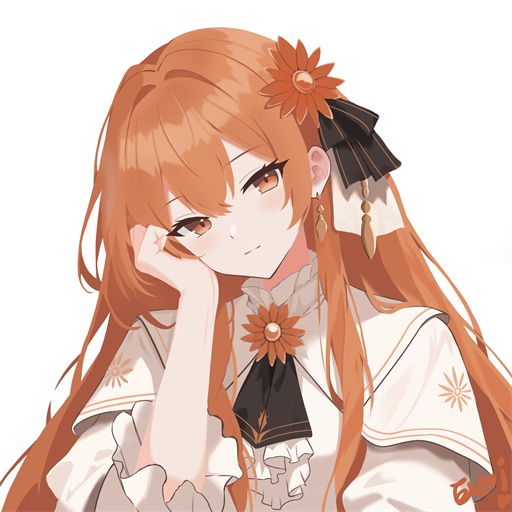
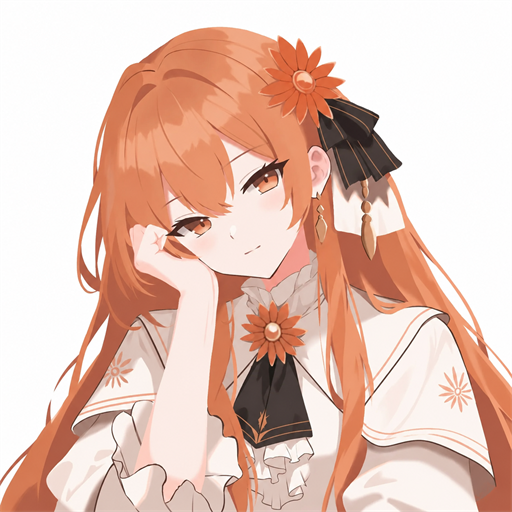
1

diff --git a/Android version/app/src/main/java/com/obliphur/oit/core/Comm.kt b/Android version/app/src/main/java/com/obliphur/oit/core/Comm.kt
@@ -4615,21 +4615,26 @@ class Comm(
         }
     }
 
-    /** 自带人设的默认头像 (1.0.426; 1.0.431 换成方形原图): 第一次运行 (或重置后) 放一份;
-     *  以前默认的圆形图还是原样时一并换掉; 用户自己换过 / 删过的不动 (设置里记版本). */
-    fun seedDefaultAvatar(bytes: ByteArray?, legacy: ByteArray? = null) {
-        if (defaultAvatarVersion >= 2) return
+    /** 自带人设的默认头像 (1.0.426; 1.0.431 / 1.0.432 换过图): 第一次运行 (或重置后) 放一份;
+     *  以前默认的图还是原样时一并换掉; 用户自己换过 / 删过的不动 (设置里记版本). */
+    fun seedDefaultAvatar(bytes: ByteArray?) {
+        if (defaultAvatarVersion >= 3) return
         val name = "Claudia.txt"
         val dst = File(File(dir, "avatars"), avatarName("ai", name))
         val cur = if (dst.isFile) runCatching { dst.readBytes() }.getOrNull() else null
-        val old = legacy != null && cur != null && cur.contentEquals(legacy)
[2 lines of base64/hex data omitted]
+        val old = cur != null && sha256(cur) in oldHashes
         if (bytes != null && listPersonas().contains(name) && (cur == null || old)) runCatching {
             dst.parentFile?.mkdirs()
             dst.writeBytes(bytes)
         }
-        defaultAvatarVersion = 2
+        defaultAvatarVersion = 3
         saveCfg()
     }
+
+    private fun sha256(b: ByteArray): String = java.security.MessageDigest.getInstance("SHA-256")
+        .digest(b).joinToString("") { "%02x".format(it.toInt() and 0xff) }
 
     /** 头像文件 (没有就是 null). */
     fun avatarPath(who: String): File? = avatarFile(who).takeIf { it.isFile }

diff --git a/Android version/app/src/main/java/com/obliphur/oit/core/Core.kt b/Android version/app/src/main/java/com/obliphur/oit/core/Core.kt
@@ -278,7 +278,7 @@ class Core(val dir: File, val host: Host, val mono: () -> Double) {
         )
         loadViolations()
         comm = Comm(dir, host.personasDir() ?: File(dir, "personas"))
-        runCatching { comm.seedDefaultAvatar(host.defaultAvatar("Claudia"), host.defaultAvatar("Claudia_legacy")) }
+        runCatching { comm.seedDefaultAvatar(host.defaultAvatar("Claudia")) }
         comm.snapshot = { commSnapshot() }
         comm.fog = { contract.fog() }
         comm.infoFn = { tag -> commInfo(tag) }

diff --git a/comm.py b/comm.py
@@ -22,6 +22,7 @@
     python comm.py     自检 (不联网, 只用临时文件夹)
 """
 
+import hashlib
 import json
 import os
 import random
@@ -42,7 +43,11 @@ HERE = os.path.dirname(os.path.abspath(__file__))
 REFUSE = "[refuse to reply]"
 OIT_TAG = "[OIT_SYSTEM_MESSAGES]"      # OIT 直接发出的消息都带这个标记 (1.0.423)
 DEFAULT_AVATARS = {"Claudia.txt": "Claudia.png"}    # 自带人设的默认头像 (1.0.426): defaults/avatars/ 里的文件
-DEFAULT_AVATAR_VERSION = 2                         # 2 = 1.0.431 换成方形原图; 以前的圆形默认图见 Claudia_legacy.png
+DEFAULT_AVATAR_VERSION = 3                         # 3 = 1.0.432 换成新版方形原图
+# 以前默认头像的 sha256 (只在升级时比对, 不带旧图): v1 圆形 / v2 圆形
+DEFAULT_AVATAR_OLD_HASHES = {"Claudia.txt": {
[2 lines of base64/hex data omitted]
 PRO_LANGS = ("中文", "English", "日本語", "한국어", "Français", "Deutsch", "Español", "Русский")       # 设置里的主动谈话语言可选项 (1.0.407); 也可以自己写别的
 MAX_PRO_LANG = 30
 PRO_LANG_NOTE = ("\n(OIT 设置, 用户指定) 这条主动发起的话请使用「{lang}」来说; 只限这一条, 之后和用户的对话不受这个限制: "
@@ -4175,18 +4180,12 @@ class Comm:
             pass
 
     def _seed_default_avatars(self):
-        """自带人设的默认头像 (1.0.426; 1.0.431 换成方形原图): 第一次运行 (或重置后) 放一份到 avatars.
-        以前默认的那张圆形图还是原样时一并换成新的; 用户自己换过 / 删过的不动 (设置里记版本, 之后不再放)."""
+        """自带人设的默认头像 (1.0.426; 1.0.431 / 1.0.432 换过图): 第一次运行 (或重置后) 放一份到 avatars.
+        以前默认的图还是原样时一并换成新的; 用户自己换过 / 删过的不动 (设置里记版本, 之后不再放)."""
         have = self.cfg.get("default_avatars")
         ver = 1 if have is True else (int(have) if isinstance(have, int) and not isinstance(have, bool) else 0)
         if ver >= DEFAULT_AVATAR_VERSION:
             return
-        legacy = None
-        try:
-            with open(os.path.join(HERE, "defaults", "avatars", "Claudia_legacy.png"), "rb") as f:
-                legacy = f.read()
-        except OSError:
-            pass
         names = set(list_personas(self.personas))
         for persona, file in DEFAULT_AVATARS.items():
             if persona not in names:
@@ -4199,7 +4198,8 @@ class Comm:
                     cur = f.read()
             except OSError:
                 pass
-            if cur is None or (legacy is not None and cur == legacy):
+            old = hashlib.sha256(cur).hexdigest() in DEFAULT_AVATAR_OLD_HASHES.get(persona, ()) if cur is not None else False
+            if cur is None or old:
                 try:
                     os.makedirs(os.path.dirname(dst), exist_ok=True)
                     shutil.copyfile(src, dst)

diff --git a/config.py b/config.py
@@ -214,7 +214,7 @@ OUTING_MAX_HOURS = 24 * 7
 
 
 APP_NAME = "Obliphur's Integrated Terminal"
-APP_VERSION = "1.0.431"                        # 和 GitHub 上发布的版本号比较 (见 updater.py)
+APP_VERSION = "1.0.432"                        # 和 GitHub 上发布的版本号比较 (见 updater.py)
 UPDATE_CHECK = 1                              # 打开程序时检查更新
 FULLSCREEN_DEFAULT = 0                        # 打开程序时默认全屏 (设置 → 基本设置, 仅电脑, 不同步; F11 随时切换)
 UPDATE_AUTO = 1                               # 发现新版本时自动下载安装

diff --git a/MECHANICS.md b/MECHANICS.md
@@ -2137,7 +2137,7 @@ t 的单位是小时; 完成时给的休息时间 = **t × 3 分钟**.
 - **头像**: 默认显示 (1.0.430 起; 以前默认关). 打开后聊天里每条消息旁有圆形头像, 设置里多出"我 / 对方"两行, 每行有"选择"和"移除". **点对方的头像**会弹出一个窗口, 放大显示**完整头像** (没有裁成圆形的那份, 1.0.430):
   "选择"打开系统的选图窗口(电脑: 资源管理器; 手机: 文件管理器 / 相册), 选好后弹出截取窗口 —— 拖动图片, 滑块 / 滚轮 / 双指缩放, **圆框里的区域就是头像**, 确定后存成 256×256 的 PNG: 电脑存一份圆形 (`圆外透明`) 和一份完整正方形 (`xxx.full.png`, 点开头像时显示的那份); 手机存正方形, 聊天里显示时再裁成圆.
   电脑用 Windows 自带的 GDI+ (`avatar.py`, 能打开 png / jpg / bmp / gif / tiff), 手机用 `ImageDecoder`. 头像存在数据文件夹的 `avatars/` 里(重置会清掉, 不同步);
-  "对方"的头像跟着人设走(换人设就换头像, 选头像前要先选人设). 没有选过图片的显示名字的第一个字. **Claudia 自带一张默认头像** (1.0.426; 1.0.431 换成方形原图 `E:\Download\Claudia.png` 生成的 512×512): `defaults/avatars/Claudia.png` (圆形) + `Claudia.full.png` (完整方形), 第一次运行 / 重置后复制到数据目录的 `avatars/`; 以前那张圆形默认图原样还在的话会一并换成新的 (拿 `Claudia_legacy.png` 按字节比对), 用户自己换过 / 删掉的不动; 手机内置在 `assets/avatars/` (方形, 显示时裁圆).
+  "对方"的头像跟着人设走(换人设就换头像, 选头像前要先选人设). 没有选过图片的显示名字的第一个字. **Claudia 自带一张默认头像** (1.0.426; 1.0.431 / 1.0.432 换过方形原图, 现在由 1254×1254 的 `E:\Download\Claudia.png` 生成 512×512): `defaults/avatars/Claudia.png` (圆形) + `Claudia.full.png` (完整方形), 第一次运行 / 重置后复制到数据目录的 `avatars/`; 以前那几张默认图原样还在的话会一并换成新的 (代码里只留旧图的 sha256 比对, 不再带旧图), 用户自己换过 / 删掉的不动; 手机内置在 `assets/avatars/` (方形, 显示时裁圆).
 
 ### 24.2 发给模型的内容
 
@@ -2282,7 +2282,7 @@ t 的单位是小时; 完成时给的休息时间 = **t × 3 分钟**.
 ### 24.3.6 头像 (每个聊天对象各自设置)
 
 - **我的头像和对方的头像都跟着人设走** (1.0.284 起; 以前只有对方的跟着走, "我"的全局一个): 设置 → 沟通 → "🖼 头像" 里设的是**现在选着的这个对象**的两个头像, 换人设就换成那个对象自己的 (没设过就没有头像).
-  文件在数据目录的 `avatars/`: `me_<人设名的 crc>.png` / `ai_<人设名的 crc>.png`, 电脑还有完整版 `*.full.png` (点开头像时放大显示, 1.0.430). 没选人设时不能设头像. **Claudia 的默认头像** (1.0.426; 1.0.431 换成方形原图): 第一次运行 (或重置后) 从 `defaults/avatars/` 复制, 设置里记 `default_avatars` 版本号 (现在是 2), 不会再放第二次; 用户换过 / 删掉的不会被覆盖, 只有还是旧默认圆形图 (`Claudia_legacy.png`) 才会被升级成新的.
+  文件在数据目录的 `avatars/`: `me_<人设名的 crc>.png` / `ai_<人设名的 crc>.png`, 电脑还有完整版 `*.full.png` (点开头像时放大显示, 1.0.430). 没选人设时不能设头像. **Claudia 的默认头像** (1.0.426; 1.0.431 / 1.0.432 换过方形原图): 第一次运行 (或重置后) 从 `defaults/avatars/` 复制, 设置里记 `default_avatars` 版本号 (现在是 3), 不会再放第二次; 用户换过 / 删掉的不会被覆盖, 只有还是旧默认图 (按代码里的 sha256 比对, 不再带旧图) 才会被升级成新的.
 - **升级**: 以前的全局 `me.png` 升级后第一次打开时复制给现有的每个人设各一份 (和现在选着的), 然后删掉它; 之后各自设置, 互不影响.
 
 ### 24.3.7 思考 (1.0.341)
